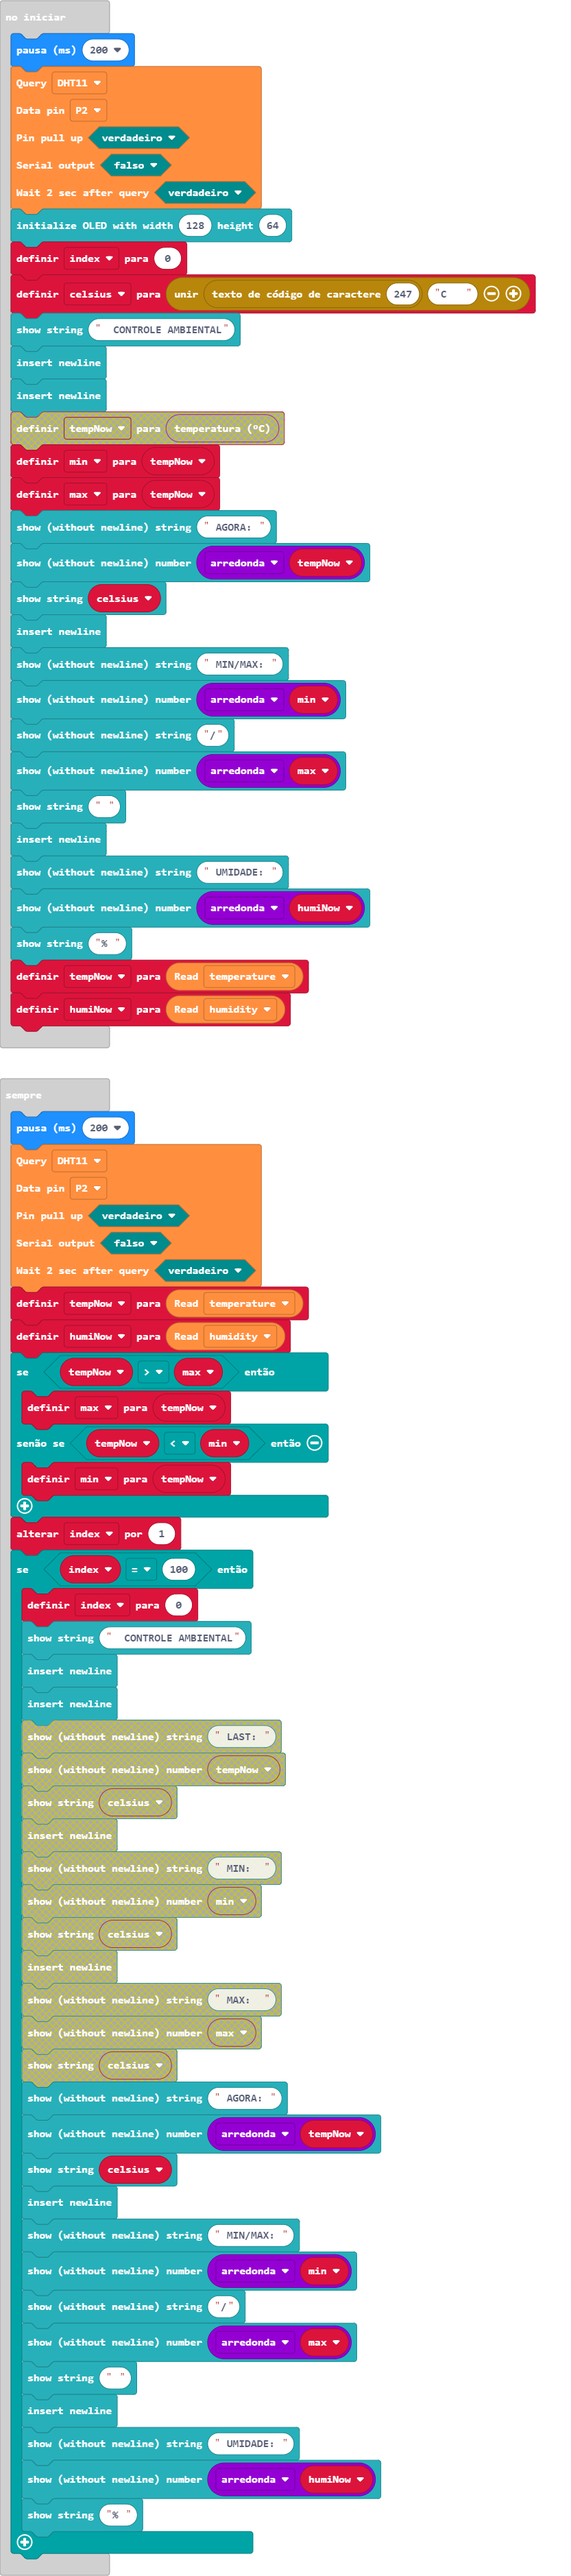
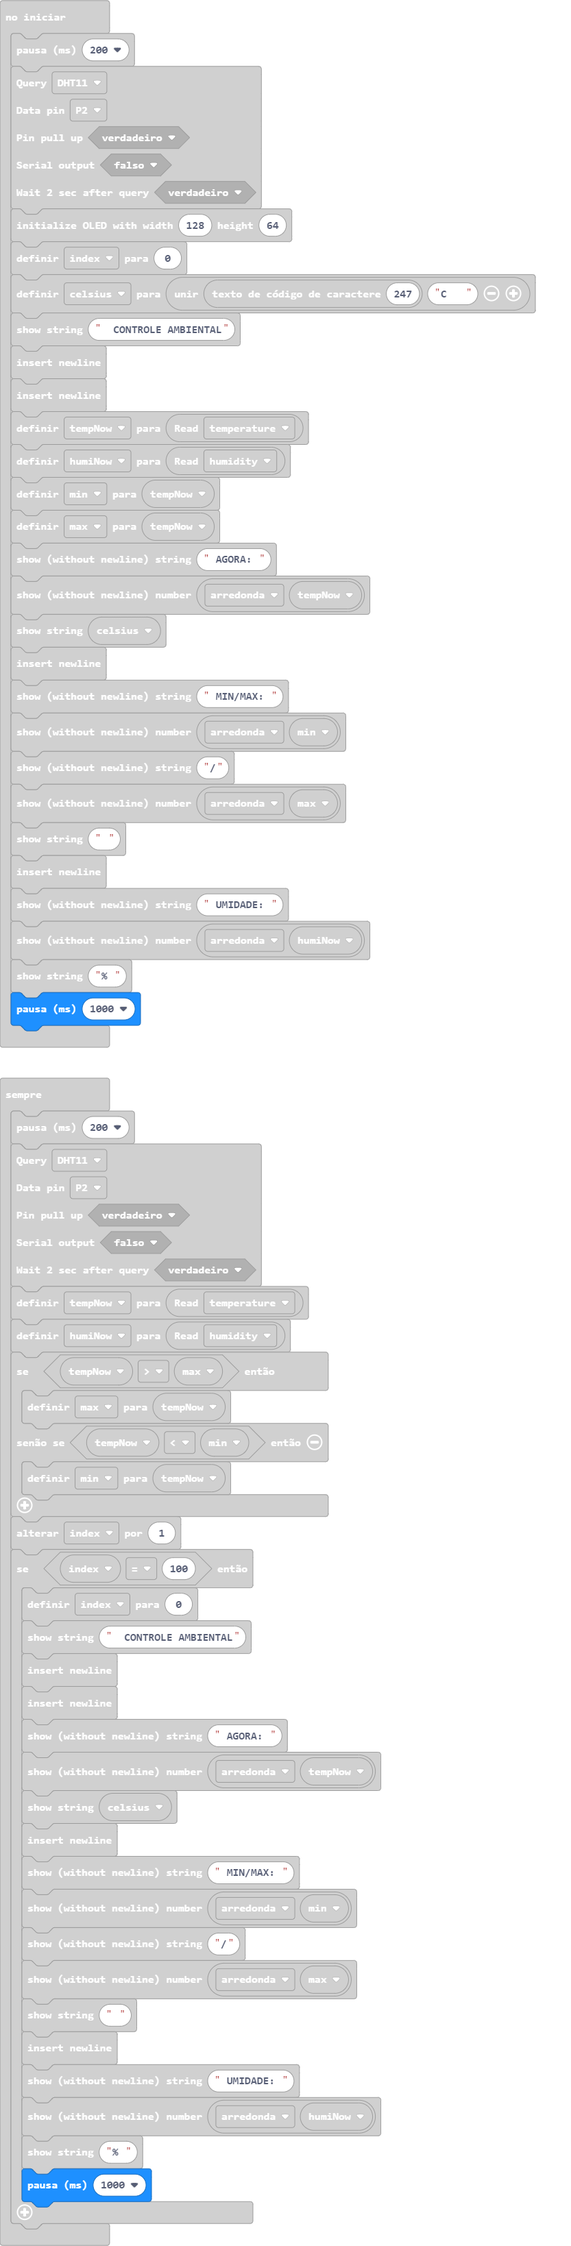
Atualizar 'main.blocks, main.ts'

diff --git a/main.ts b/main.ts
@@ -29,6 +29,7 @@ OLED.newLine()
 OLED.writeString(" UMIDADE: ")
 OLED.writeNum(Math.round(humiNow))
 OLED.writeStringNewLine("% ")
+basic.pause(1000)
 basic.forever(function () {
     basic.pause(200)
     dht11_dht22.queryData(
@@ -64,5 +65,6 @@ basic.forever(function () {
         OLED.writeString(" UMIDADE: ")
         OLED.writeNum(Math.round(humiNow))
         OLED.writeStringNewLine("% ")
+        basic.pause(1000)
     }
 })
